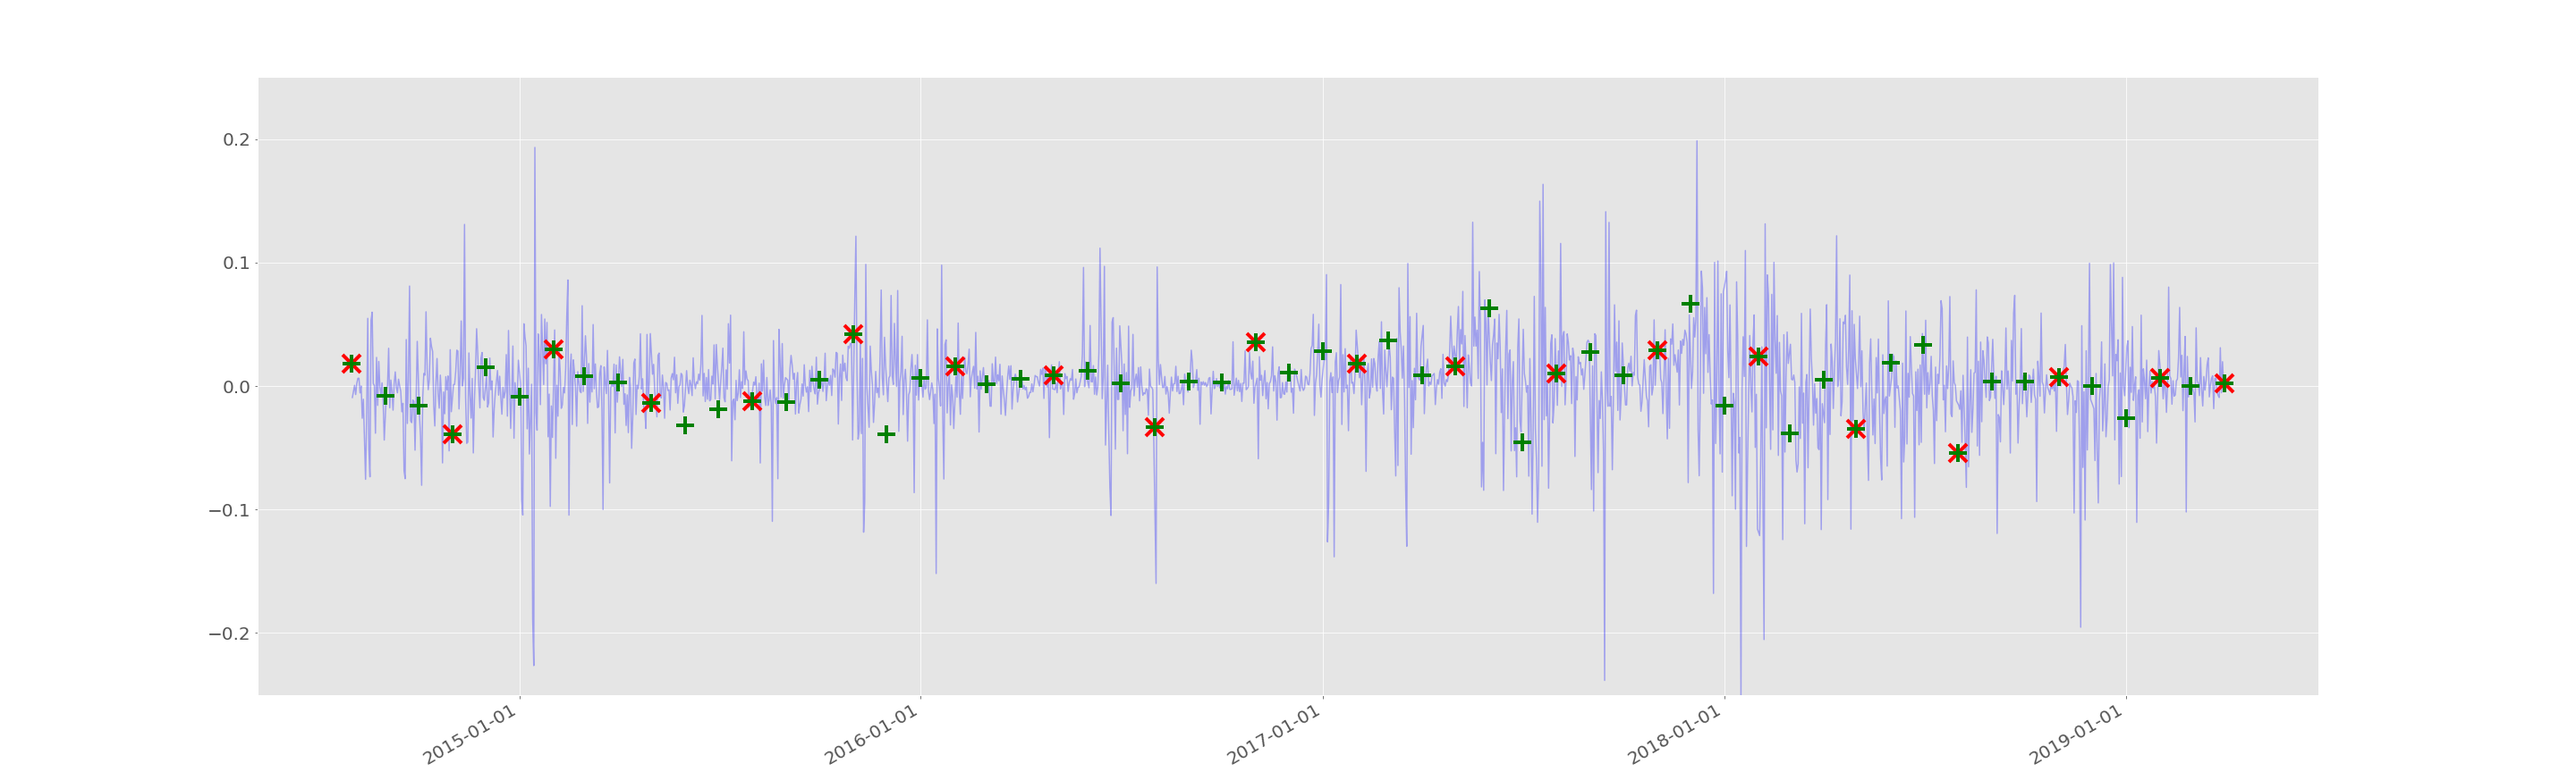
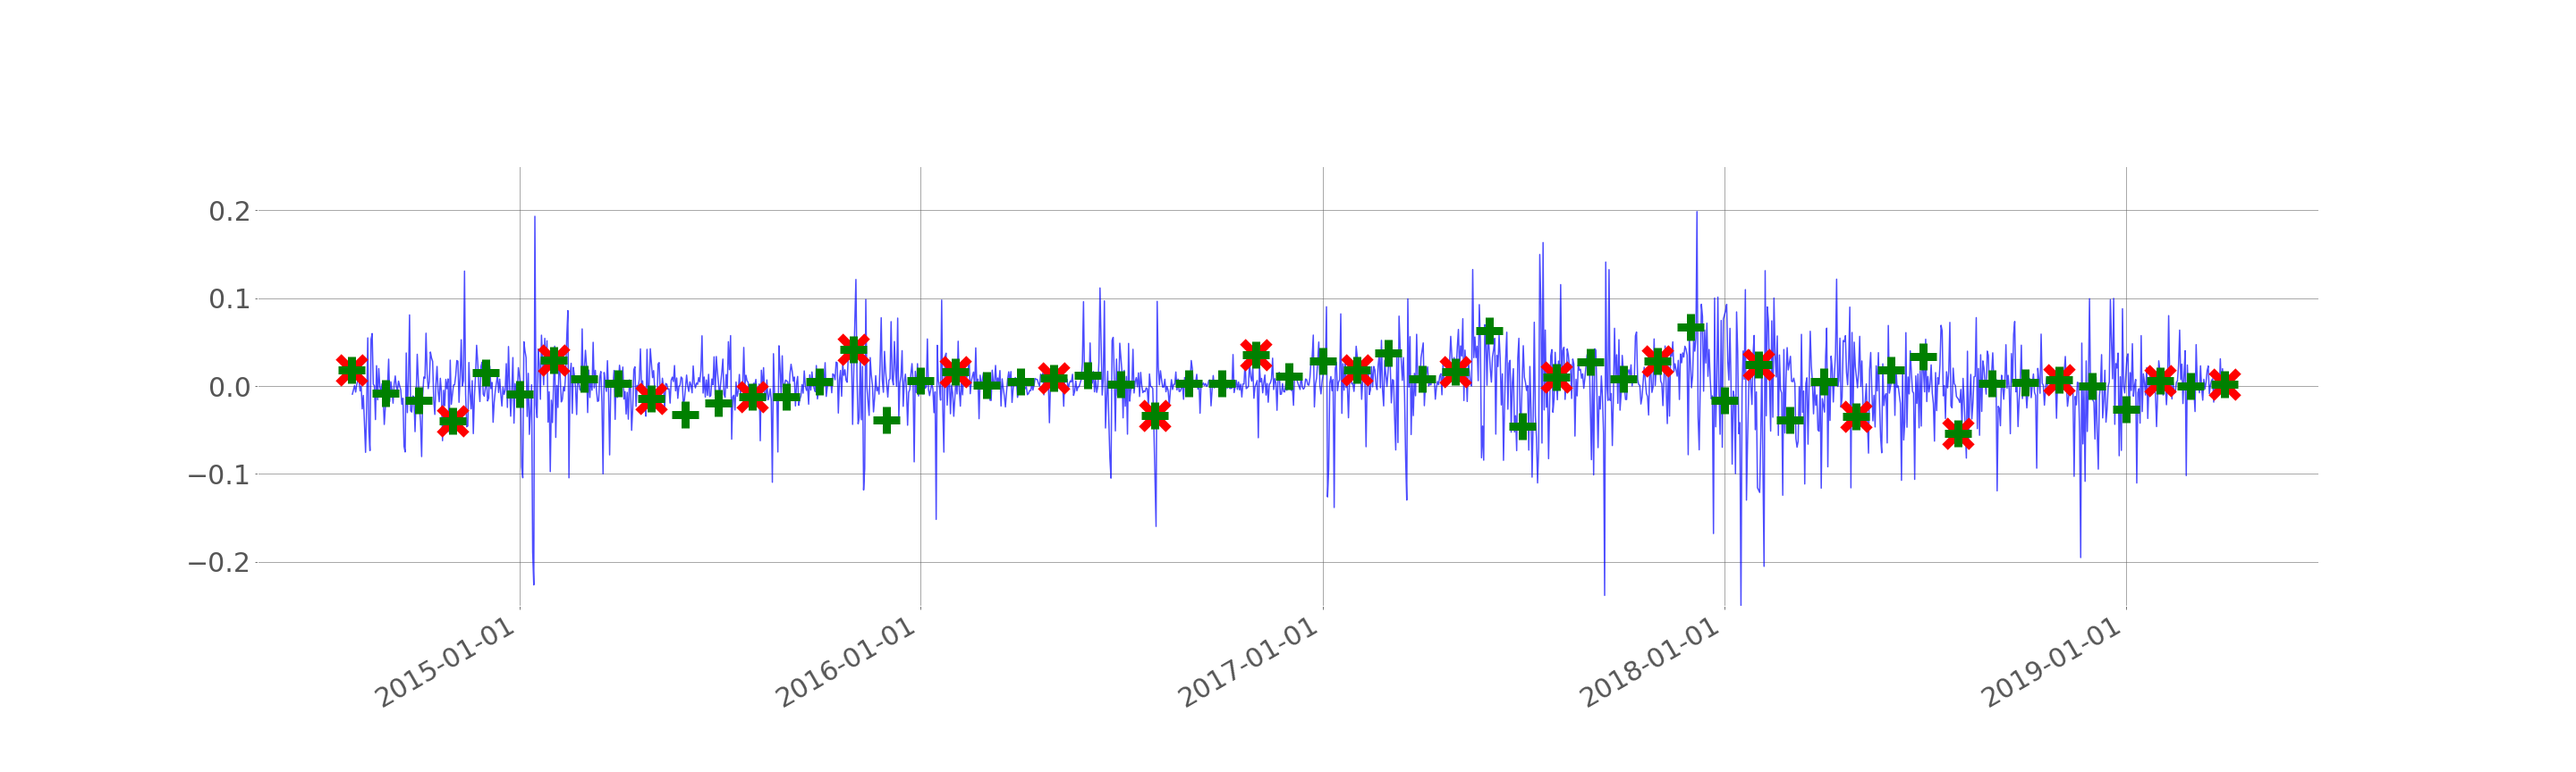
changed after phone call with Prof. Härdle

diff --git a/SL_20190606_CRIXRebalancing/DailyLogReturns.py b/SL_20190606_CRIXRebalancing/DailyLogReturns.py
@@ -27,24 +27,28 @@ from __main__ import logreturn_at_rebalance
 
 # plotting
 fig=plt.figure(figsize=(40,12))
+
 axes=fig.add_axes([0.1,0.1,0.8,0.8])
-axes.tick_params(axis='both', which='major', labelsize=20)
+plt.grid(b='TRUE', which='major', color='#666666', linestyle='-',alpha=0.7)
+axes.set_facecolor('white')
+axes.set_aspect(aspect=800)
 # ...dates of others
 x1=dates_of_others
 y1=logreturn_others
-axes.plot(x1,y1,marker='',color='blue',alpha=0.3)
+axes.plot(x1,y1,marker='',color='blue',alpha=0.7)
 # ...dates of index amount rebalancing = 1st of each 3rd month
 x3 = dates_of_ind_rebalance
 y3 = logreturn_at_rebalance
-axes.plot(x3,y3,'rx',mew=4, ms=20)
+axes.plot(x3,y3,'rx',mew=9, ms=30)
 # ...dates of usual index change = 1st of a month
 x2 = dates_of_first
 y2 = logreturn_at_first
-axes.plot(x2,y2,'g+',mew=4, ms=20)
+axes.plot(x2,y2,'g+',mew=9, ms=30)
 axes.set_ylim([-0.25,0.25])
 myFmt = mdates.DateFormatter('%Y-%m-%d')
 axes.xaxis.set_major_formatter(myFmt)
 fig.autofmt_xdate()
+axes.tick_params(axis='both', which='major', labelsize=30)
 plt.savefig('DailyLogReturns.png')
 
 ############## Summary of mean and variances of daily log returns #########################

diff --git a/SL_20190606_CRIXRebalancing/PlotNumberofConst.py b/SL_20190606_CRIXRebalancing/PlotNumberofConst.py
@@ -26,12 +26,16 @@ for i in dates_of_first:
     n.append(len(crix_constituents.loc[i]))
 
 #plotting number of constituents over time
-fig=plt.figure(figsize=(12,3))
+fig=plt.figure(figsize=(18,12))
 axes=fig.add_axes([0.1,0.1,0.8,0.8])
+axes.tick_params(axis='both', which='major', labelsize=20)
+axes.set_aspect(aspect=9)
 x=dates_of_first
 y=n
-axes.plot(x,y,'g+',mew=3,ms=10)
-plt.xticks(dates_of_ind_rebalance)
+axes.plot(x,y,'go',mew=3,ms=15)
+plt.grid(b='TRUE', which='both', axis='x', color='#666666', linestyle='-',alpha=0.7)
+axes.set_facecolor('white')
+plt.xticks(dates_of_ind_rebalance[:-1])
 myFmt = mdates.DateFormatter('%Y-%m-%d')
 axes.xaxis.set_major_formatter(myFmt)
 fig.autofmt_xdate()

diff --git a/SL_20190606_CRIXRebalancing/Inference.py b/SL_20190606_CRIXRebalancing/Inference.py
@@ -60,22 +60,13 @@ plt.xticks(np.arange(-6, 7, 2))
 plt.yticks(np.arange(-6, 7, 2))
 plt.ylim(-7,7)
 plt.xlim(-7,7)
-plt.ylim()
+plt.grid(b=True, which='major', color='#666666', linestyle='-')
+ax=plt.gca()
+ax.set_facecolor('white')
 plt.gcf()
 fig.tight_layout()
 plt.savefig('QQPlots.png')
 
-
-
-
-plt.xlim((-3,3))
-plt.ylim((-3,3))
-fig2=sp.qqplot(logreturn_at_first, line='45',fit='TRUE',color='green')
-plt.axis('scaled')
-plt.xticks(np.arange(-4, 4, 2))
-plt.yticks(np.arange(-4, 4, 2))
-plt.show()
-plt.savefig('QQPlot_first.png')
 
 
 # Shapiro Wilk's test

diff --git a/SL_20190606_CRIXRebalancing/CRIXRebalancingMaster.py b/SL_20190606_CRIXRebalancing/CRIXRebalancingMaster.py
@@ -7,6 +7,7 @@ Created on Tue May 28 15:00:05 2019
 Description: This program is the master program to the slides and should be run as it calls all other scripts
 """
 
+
 ############################### Import other scripts and variables ##########################################
 import pandas as pd
 
